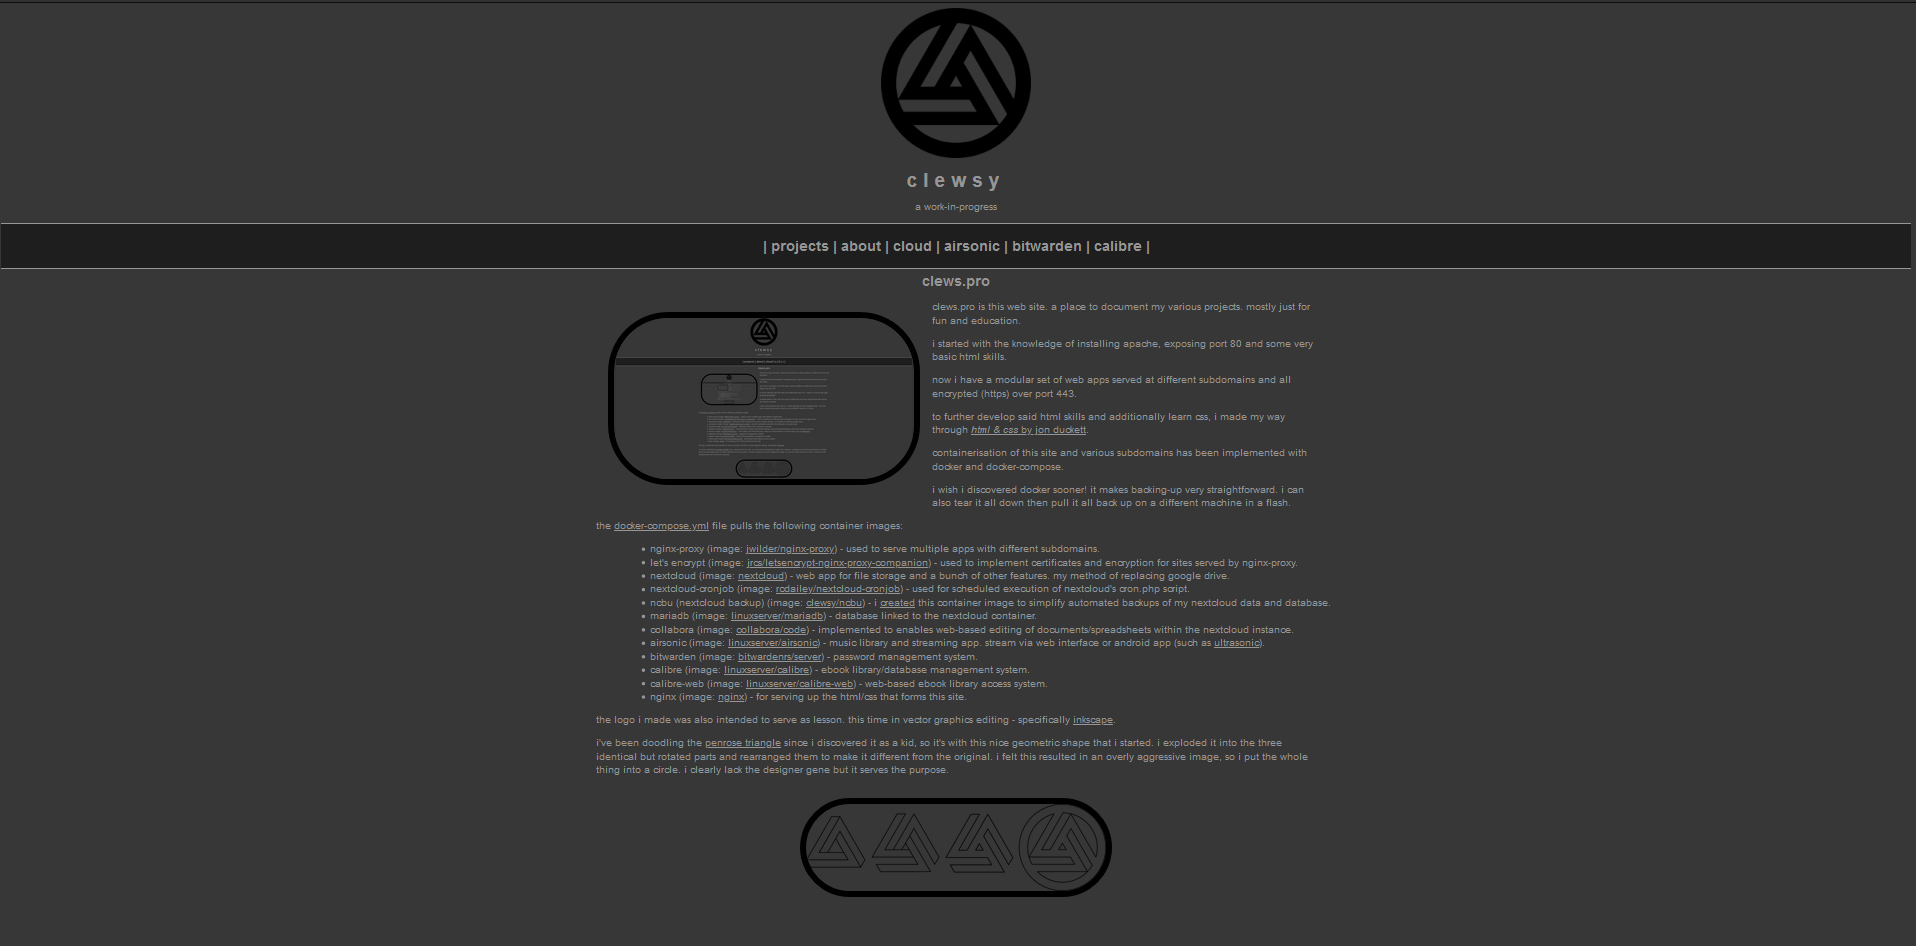
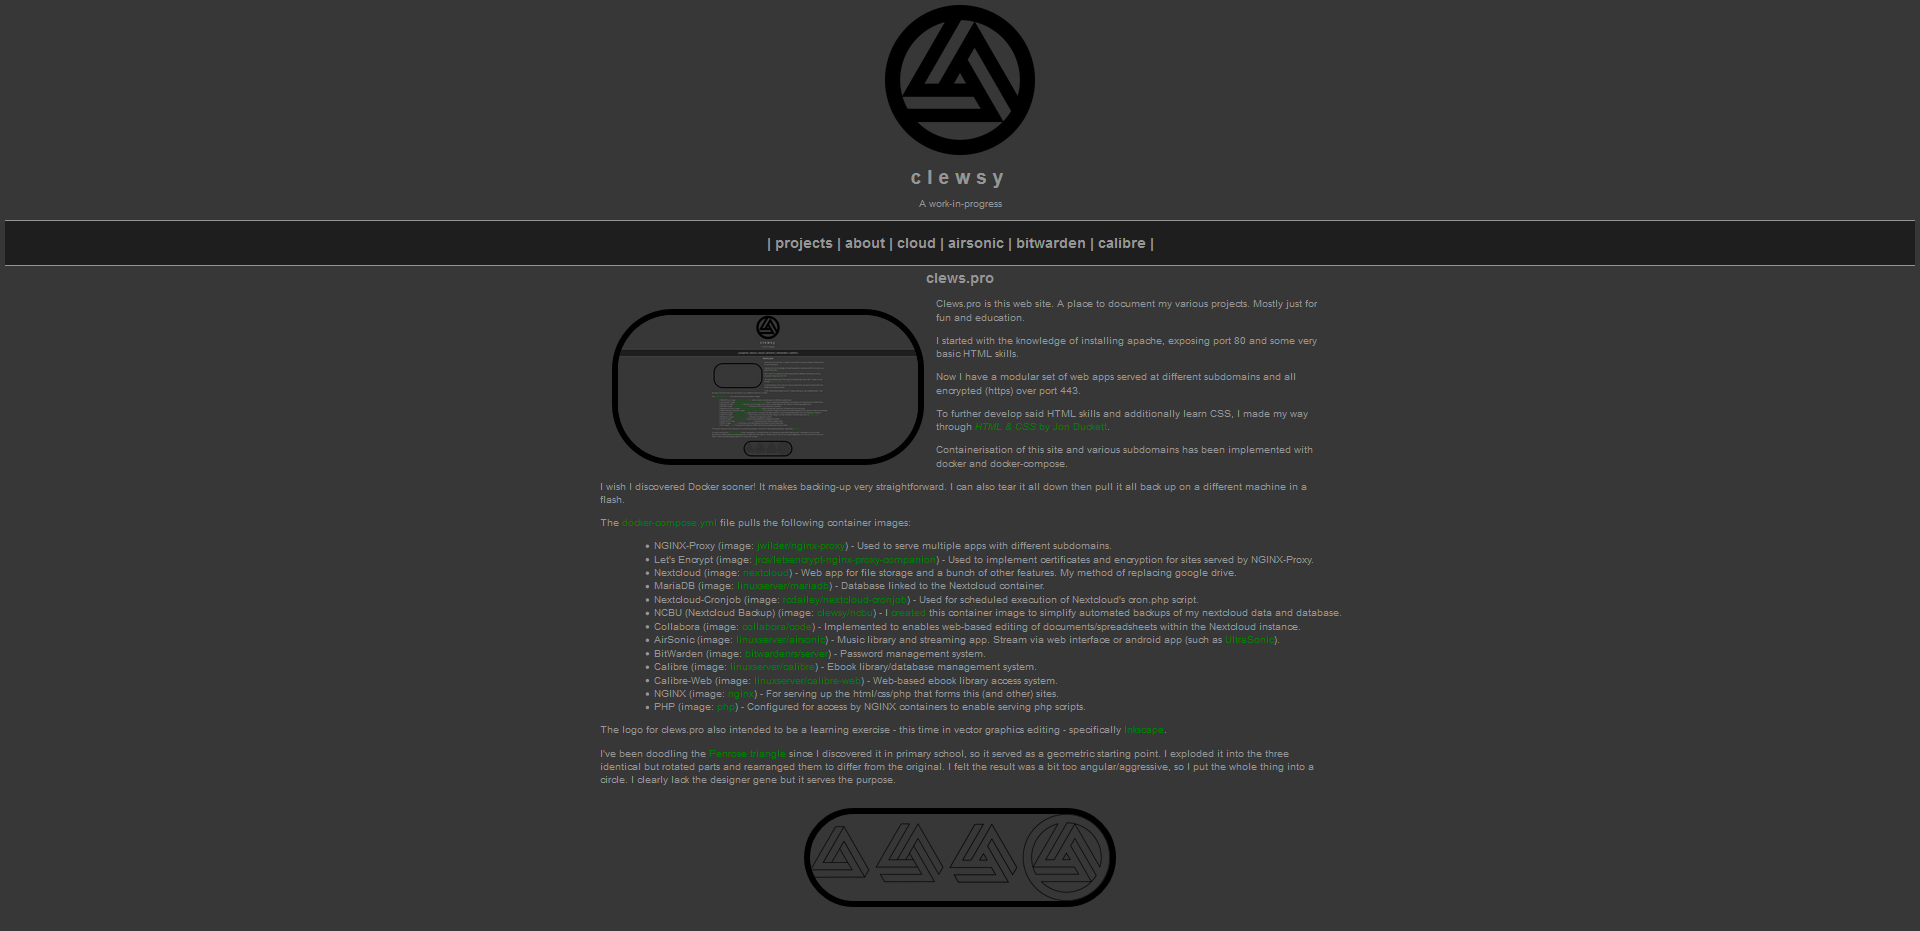
Added php to list of containers.  Updated image.
Former-commit-id: 06193e0ff51e9e53932f8c6a59b0ac6249402213

Changed region(s): [[0.0, 0.1869, 0.9854, 0.9968], [0.4619, 0.0, 0.5235, 0.1557]]

diff --git a/clews.pro/html/projects/clews.php b/clews.pro/html/projects/clews.php
@@ -20,18 +20,19 @@
 				<li>NGINX-Proxy (image: <a href="https://hub.docker.com/r/jwilder/nginx-proxy">jwilder/nginx-proxy</a>) - Used to serve multiple apps with different subdomains.</li>
 				<li>Let's Encrypt (image: <a href="https://hub.docker.com/r/jrcs/letsencrypt-nginx-proxy-companion">jrcs/letsencrypt-nginx-proxy-companion</a>) - Used to implement certificates and encryption for sites served by NGINX-Proxy.</li>
 				<li>Nextcloud (image:  <a href="https://hub.docker.com/_/nextcloud">nextcloud</a>) - Web app for file storage and a bunch of other features.  My method of replacing google drive.</li>
+				<li>MariaDB (image:  <a href="https://hub.docker.com/r/linuxserver/mariadb">linuxserver/mariadb</a>) - Database linked to the Nextcloud container.</li>
 				<li>Nextcloud-Cronjob (image:  <a href="https://hub.docker.com/r/rcdailey/nextcloud-cronjob">rcdailey/nextcloud-cronjob</a>) - Used for scheduled execution of Nextcloud's cron.php script.</li>
 				<li>NCBU (Nextcloud Backup) (image:  <a href="https://hub.docker.com/r/clewsy/ncbu">clewsy/ncbu</a>) - I <a href="/projects/ncbu.html">created</a> this container image to simplify automated backups of my nextcloud data and database.</li>
-				<li>MariaDB (image:  <a href="https://hub.docker.com/r/linuxserver/mariadb">linuxserver/mariadb</a>) - Database linked to the Nextcloud container.</li>
 				<li>Collabora (image:  <a href="https://hub.docker.com/r/collabora/code">collabora/code</a>) - Implemented to enables web-based editing of documents/spreadsheets within the Nextcloud instance.</li>
 				<li>AirSonic (image:  <a href="https://hub.docker.com/r/linuxserver/airsonic">linuxserver/airsonic</a>) - Music library and streaming app.  Stream via web interface or android app (such as <a href="https://www.f-droid.org/en/packages/org.moire.ultrasonic/">UltraSonic</a>).</li>
 				<li>BitWarden (image:  <a href="https://hub.docker.com/r/bitwardenrs/server">bitwardenrs/server</a>) - Password management system.</li>
 				<li>Calibre (image:  <a href="https://hub.docker.com/r/linuxserver/calibre">linuxserver/calibre</a>) - Ebook library/database management system.</li>
 				<li>Calibre-Web (image:  <a href="https://hub.docker.com/r/linuxserver/calibre-web">linuxserver/calibre-web</a>) - Web-based ebook library access system.</li>
-				<li>NGINX (image:  <a href="https://hub.docker.com/_/nginx">nginx</a>) - For serving up the html/css that forms this site.</li>
+				<li>NGINX (image:  <a href="https://hub.docker.com/_/nginx">nginx</a>) - For serving up the html/css/php that forms this (and other) sites.</li>
+				<li>PHP (image: <a href="https://hub.docker.com/_/php">php</a>) - Configured for access by NGINX containers to enable serving php scripts.</li>
 			</ul>
-			<p>The logo I made was also intended to serve as lesson.  This time in vector graphics editing - specifically <a href="https://inkscape.org/">Inkscape</a>.</p>
-			<p> I've been doodling the <a href="https://en.wikipedia.org/wiki/Penrose_triangle">Penrose triangle</a> since I discovered it as a kid, so it's with this nice geometric shape that I started.  I exploded it into the three identical but rotated parts and rearranged them to make it different from the original.  I felt this resulted in an overly aggressive image, so I put the whole thing into a circle.  I clearly lack the designer gene but it serves the purpose.</p>
+			<p>The logo for clews.pro also intended to be a learning exercise - this time in vector graphics editing - specifically <a href="https://inkscape.org/">Inkscape</a>.</p>
+			<p> I've been doodling the <a href="https://en.wikipedia.org/wiki/Penrose_triangle">Penrose triangle</a> since I discovered it in primary school, so it served as a geometric starting point.  I exploded it into the three identical but rotated parts and rearranged them to differ from the original.  I felt the result was a bit too angular/aggressive, so I put the whole thing into a circle.  I clearly lack the designer gene but it serves the purpose.</p>
 			<p><a class="align-center" href="images/clews_02.png"><img class="photo" src="images/clews_02.png" alt="I don't know what I'm doing." /></a></p>
 		</div>
 	</body>

diff --git a/clews.pro/html/projects.php b/clews.pro/html/projects.php
@@ -21,7 +21,7 @@
 					<th scope="row"><a href="/projects/clews.php">clews.pro</a></th>
 					<td><a href="/projects/clews.php"><img class="thumbnail" src="/projects/images/clews_01.png" /></a></td>
 					<td><a href="/projects/clews.php">Meta.</a></td>
-					<td class="date">2020-05-04</td>
+					<td class="date">2020-05-05</td>
 					<td class="links">
 						<a href="https://gitlab.com/clewsy/clews.pro">gitlab</a><br />
 						<a href="/projects.php">Recursion...</a>
